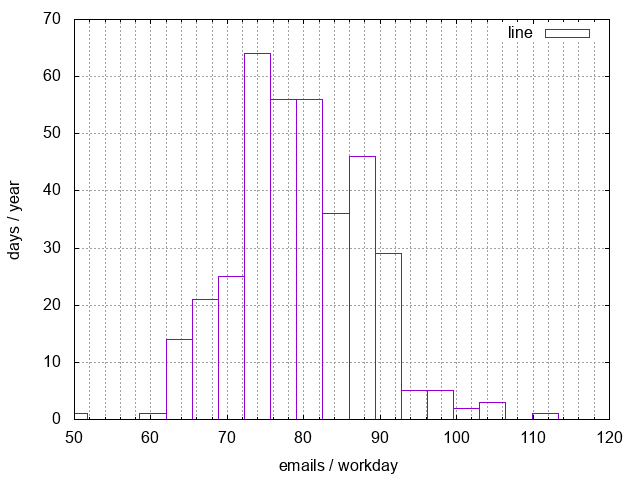
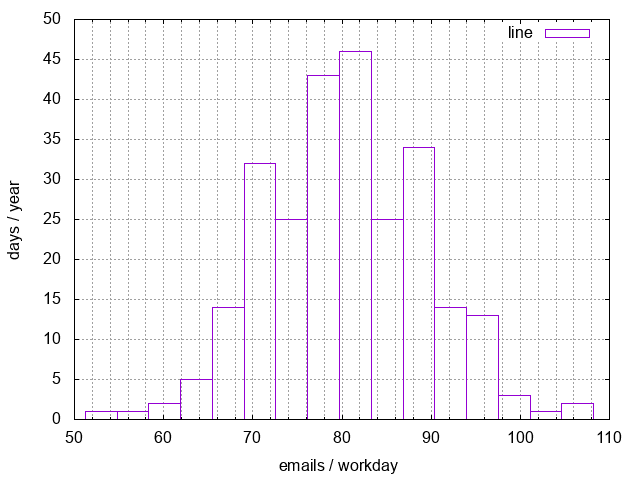
Give direct example of the histogram

diff --git a/examples/poissP-emails.js b/examples/poissP-emails.js
@@ -4,8 +4,9 @@ import {plot} from 'plotter';
 
 import * as stoch from '../src/index';
 
-// 10 emails per hour over the course of an 8 hour day; what's the
-// distribution over the course of a standard 261 work-day year
+// Assuming you get 10 emails per hour over the course of an 8 hour day;
+// what's the distribution of the number of emails you receive each day
+// over the course of a standard 261 work-day year
 const emails = Array
       .apply(
         null,
@@ -16,8 +17,11 @@ const emails = Array
           return poissP.length;
         });
 
+
 console.log(emails);
+
 const hist = stoch.hist(emails);
+// const hist = stoch.hist(Array(261).fill(null).map(e => stoch.poissP(10, 8, true).length));
 console.log(hist);
 
 // const data = Object.keys(hist).map((e, i, c) => { return hist[e]; });

diff --git a/src/index.js b/src/index.js
@@ -5,13 +5,13 @@
  *
  * ![poissP](out/poissP.png)
  *
- * Example: 10 emails per hour during an 8 hour workday; what's the
+ * *Exercise*: 10 emails per hour during an 8 hour workday; what's the
  * distribution over the course of a standard 261 work-day year?
  *
  * ![poissP-emails](out/poissP-emails.png)
  *
  * @example const poissP = stoch.poissP(1, 100, true);
- * @example const emails = stoch.poissP(10, 8, true);
+ * @example const emails = stoch.hist(Array(261).fill(null).map(e => stoch.poissP(10, 8, true).length));
  * @param {number} lambda (rate)
  * @param {number} T time as positive number
  * @param {boolean} [path=true]

diff --git a/README.md b/README.md
@@ -49,7 +49,7 @@ Returns an array with the times of each arrival in a [Poisson Process](http://en
 
 ![poissP](out/poissP.png)
 
-Example: 10 emails per hour during an 8 hour workday; what's the
+_Exercise_: 10 emails per hour during an 8 hour workday; what's the
 distribution over the course of a standard 261 work-day year?
 
 ![poissP-emails](out/poissP-emails.png)
@@ -67,7 +67,7 @@ const poissP = stoch.poissP(1, 100, true);
 ```
 
 ```javascript
-const emails = stoch.poissP(10, 8, true);
+const emails = stoch.hist(Array(261).fill(null).map(e => stoch.poissP(10, 8, true).length));
 ```
 
 Returns **[Array](https://developer.mozilla.org/en-US/docs/Web/JavaScript/Reference/Global_Objects/Array)&lt;[number](https://developer.mozilla.org/en-US/docs/Web/JavaScript/Reference/Global_Objects/Number)>** times of each arrival in a Poisson Process
